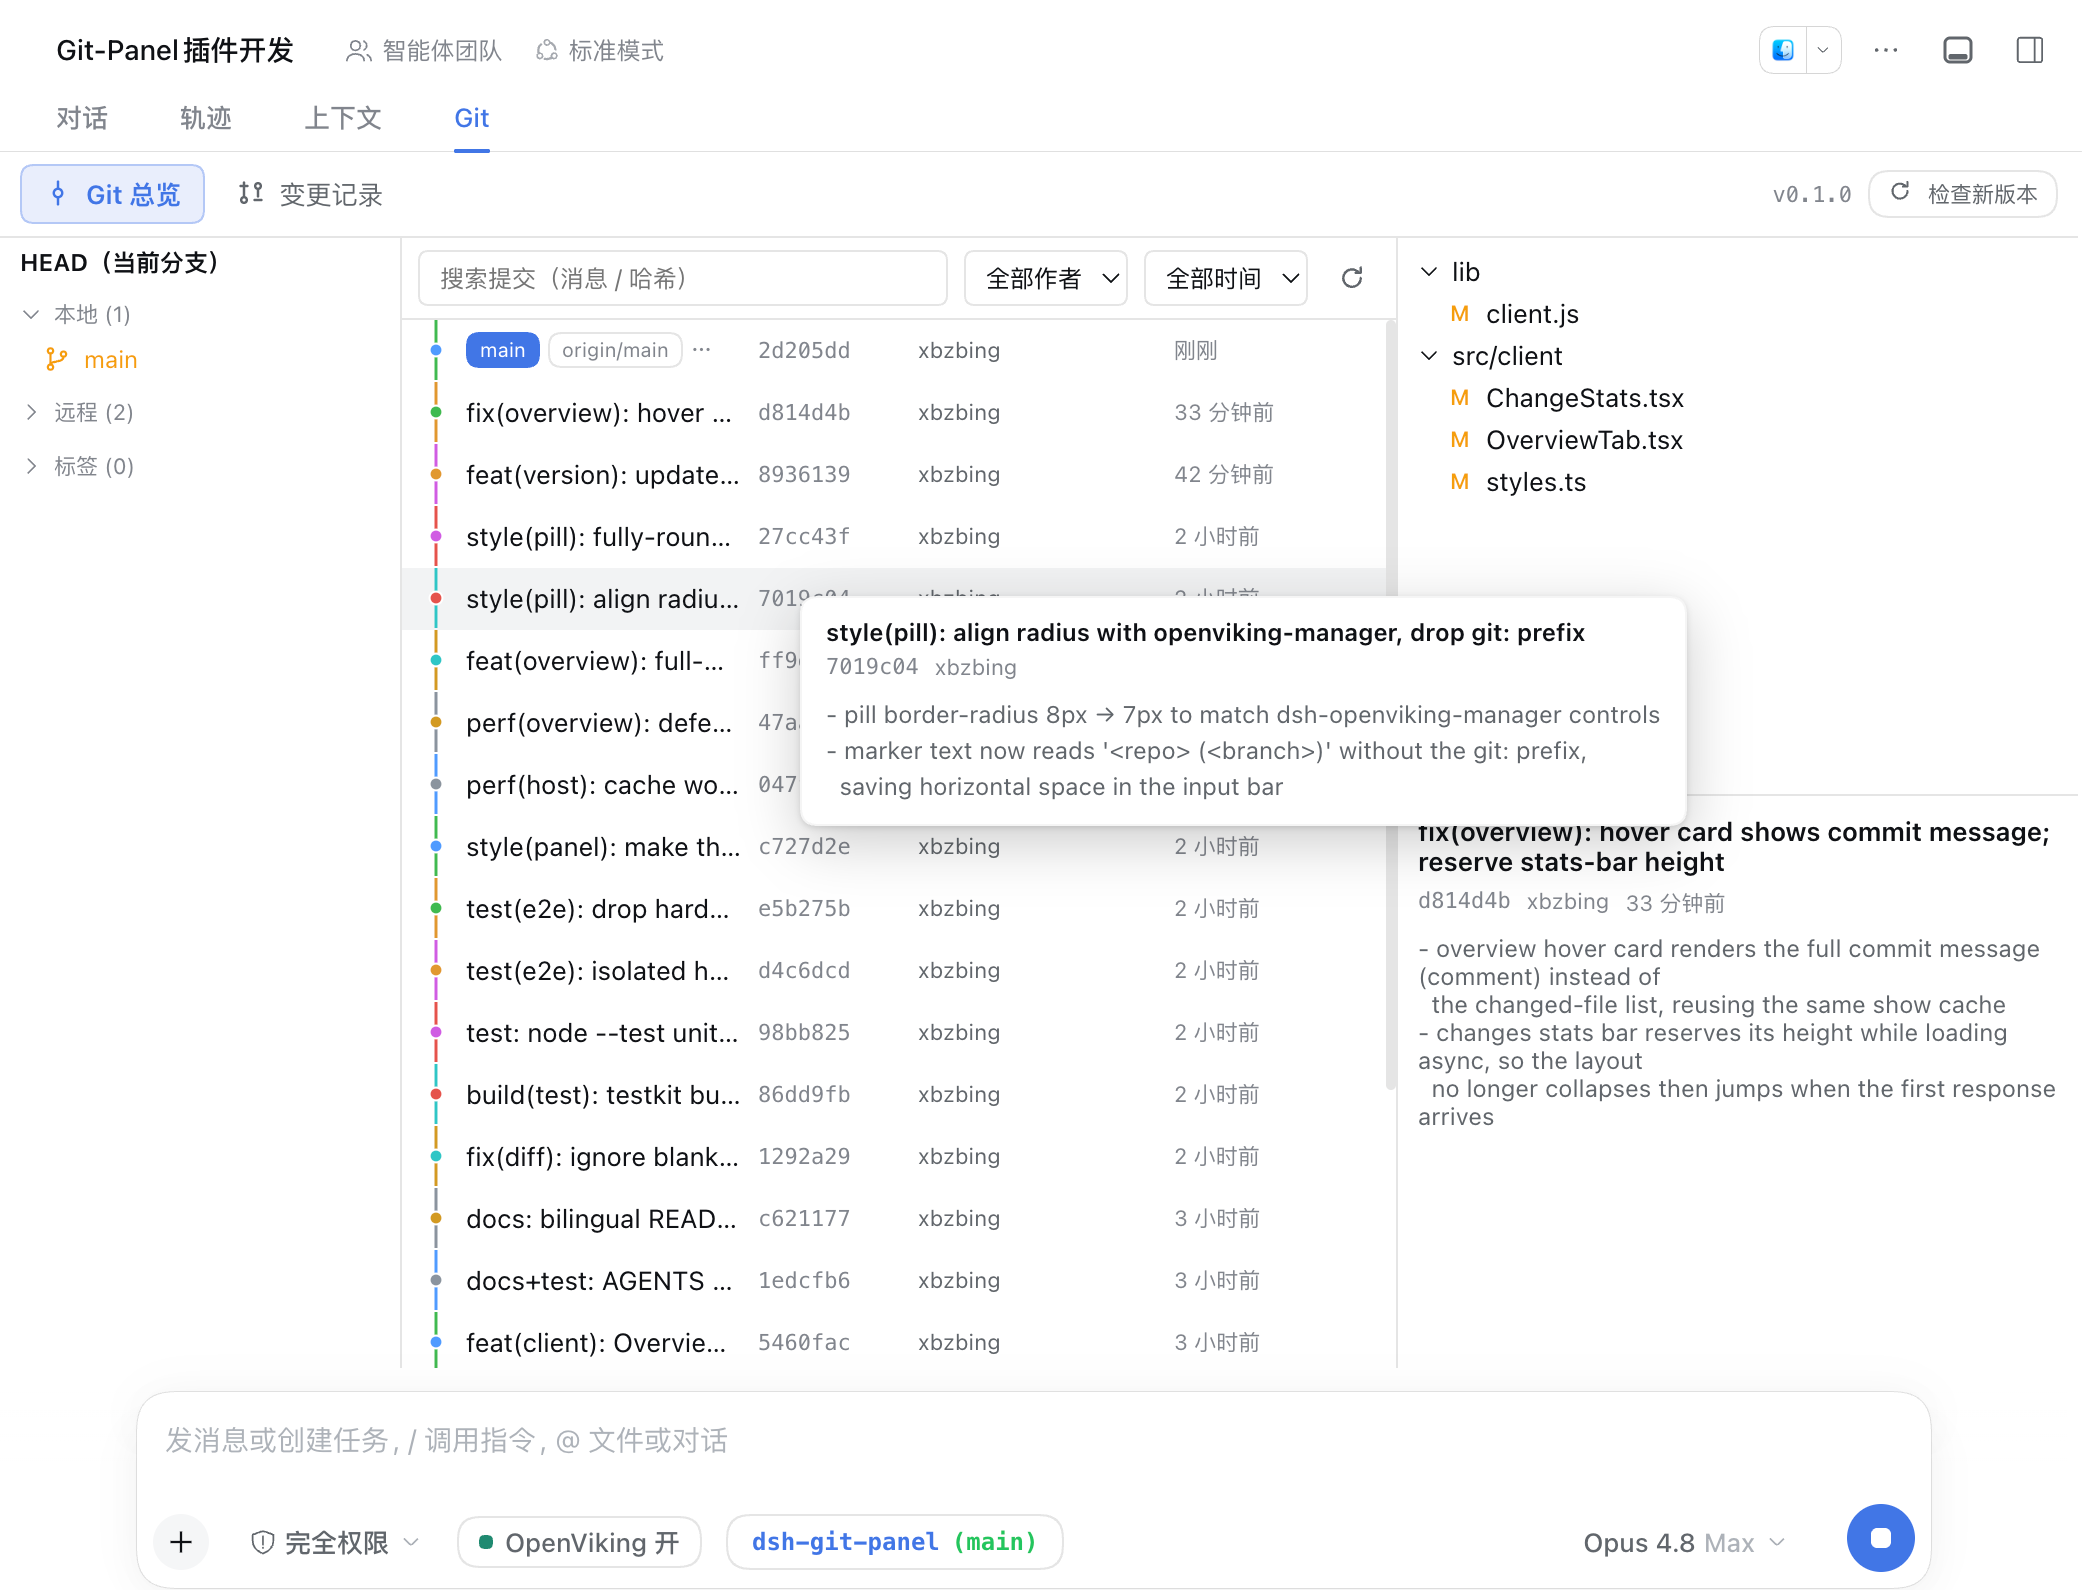
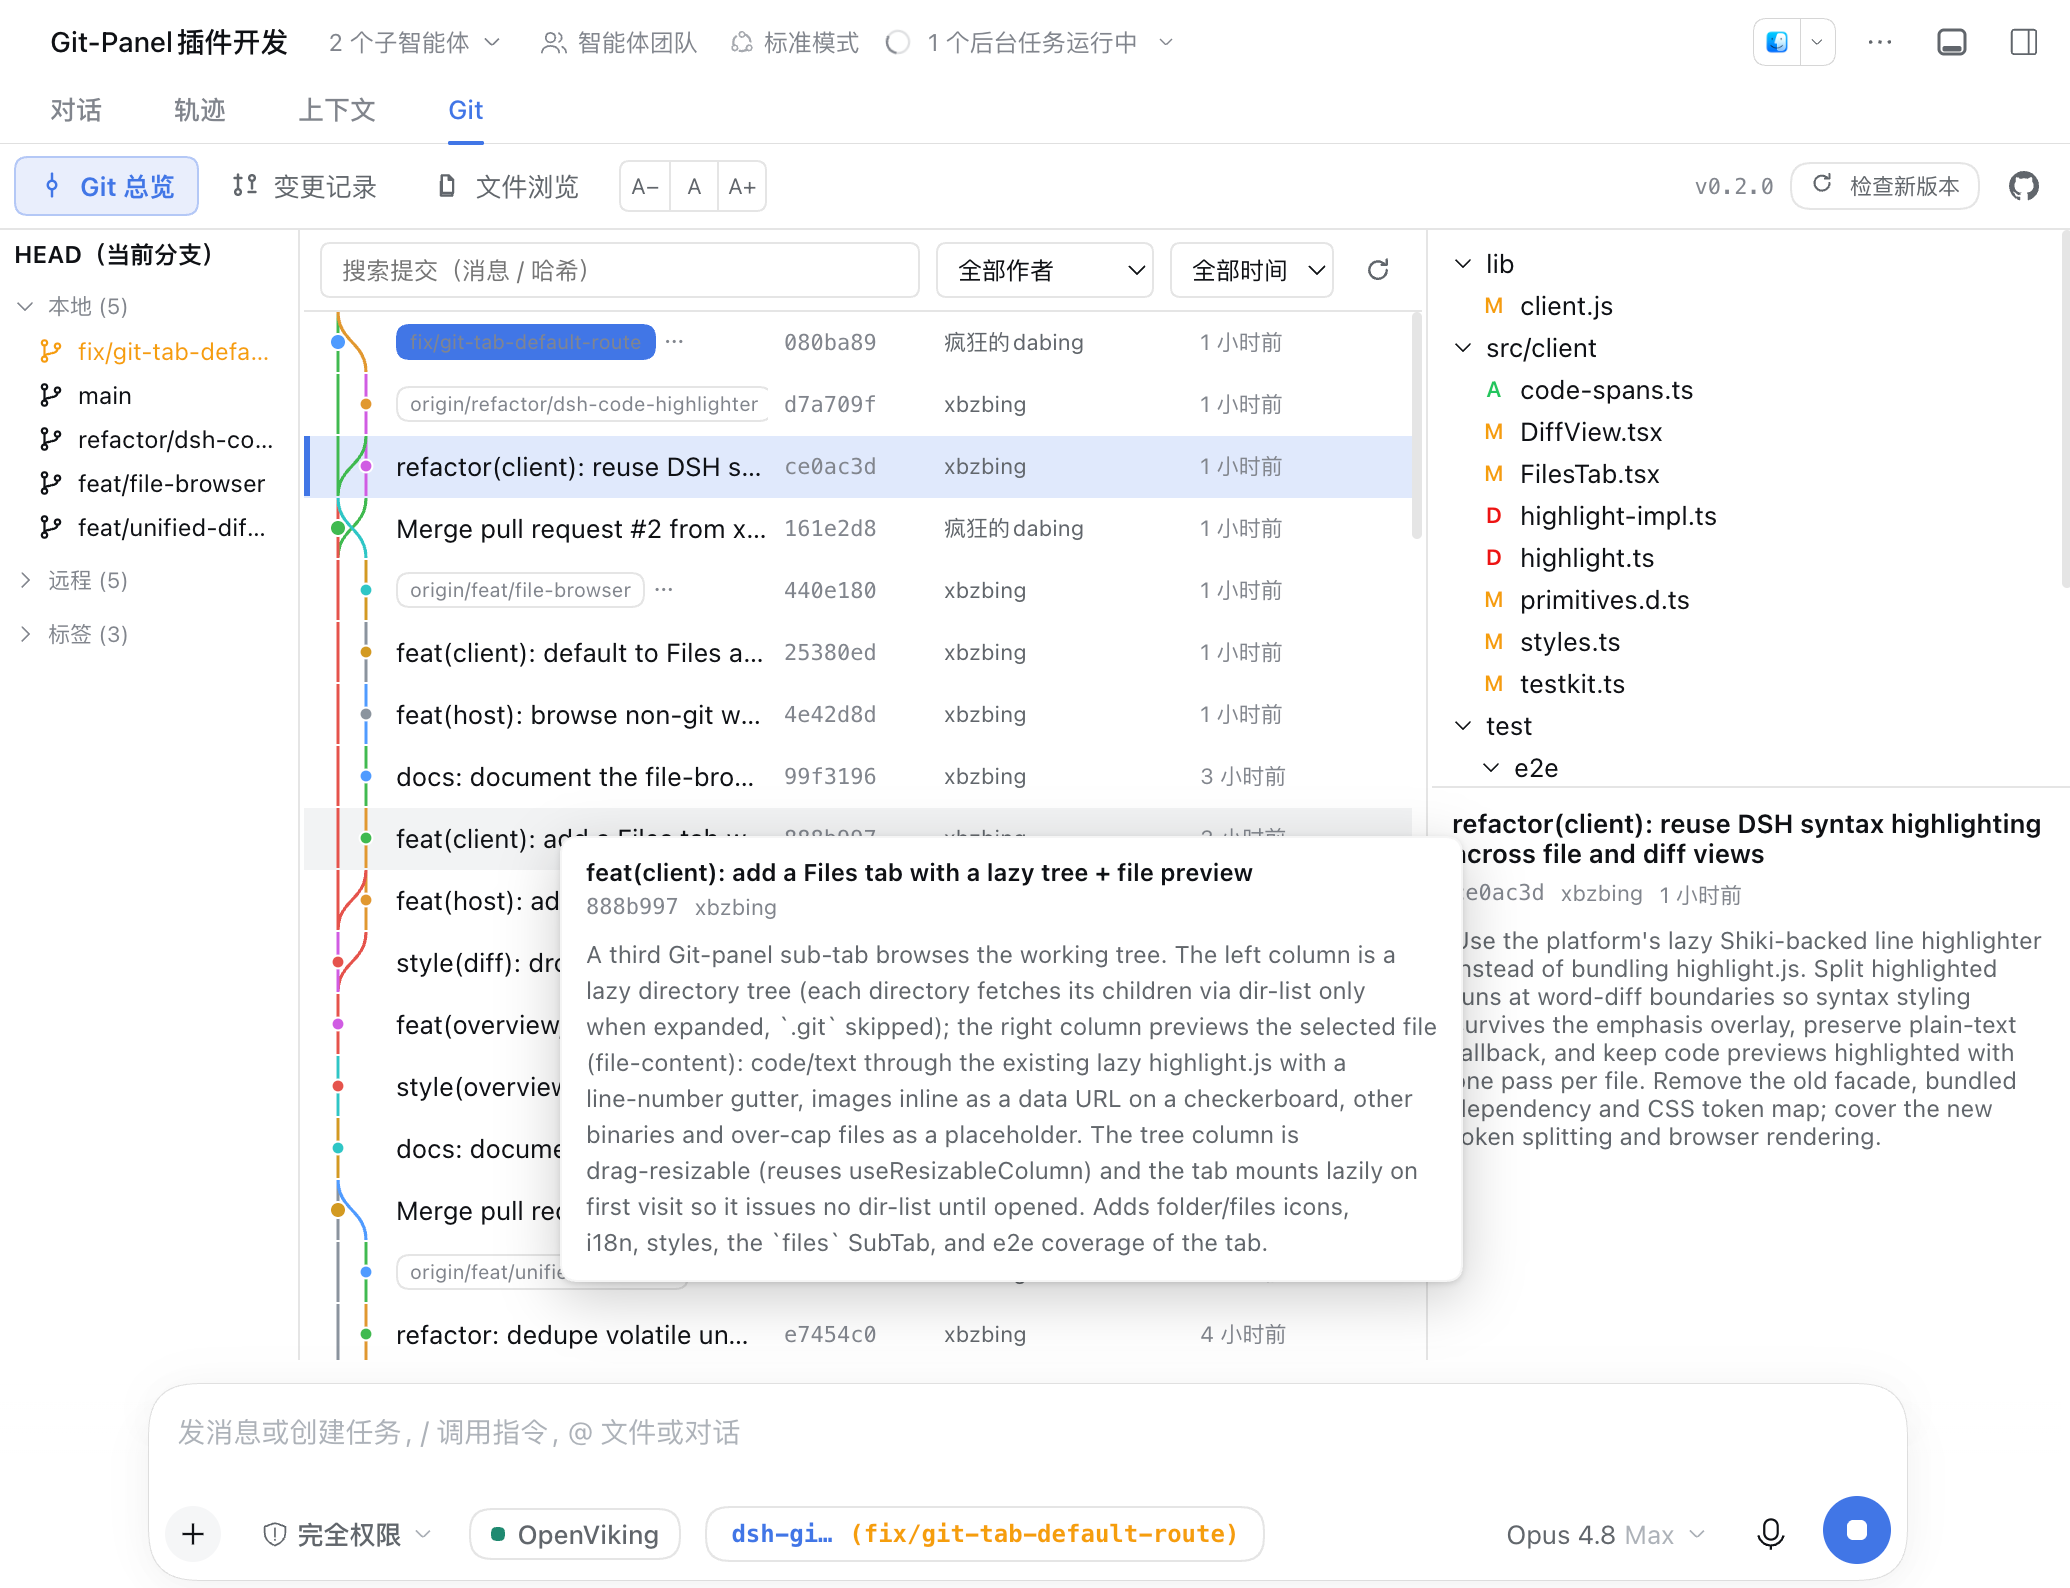
docs: describe new file-browser, panel, and install/restart behavior

diff --git a/README_EN.md b/README_EN.md
@@ -18,13 +18,13 @@ dsh plugin --profile web add @xbzbing/dsh-git-panel@latest
 dsh plugin --profile web add github:xbzbing/dsh-git-panel
 ```
 
-Restart or refresh the Web GUI afterwards and the **Git** panel appears in the workspace tab bar (after Chat and Trajectory).
+After installing or updating, restart the `dsh web` service and refresh the page; the **Git** panel then appears in the workspace tab bar (after Chat and Trajectory). The plugin has a host half and a client half, and both the host mount and the client bundle manifest are fixed when the service starts, so code updates (installing, or an `add` that overwrites `lib`) usually need a service restart — a page refresh alone may not pick them up. In-panel settings (the input-bar marker toggle and the default diff view on the detail page) are hot-written and apply immediately without a restart.
 
 ## Features
 
 - **Overview** — three columns. The left column is the branch / tag list; clicking a ref filters history by it. The middle column is the commit history graph, searchable by commit message, commit hash, author, or date; hovering a commit shows a card with its full commit message (comment). The right column is the selected commit's changed-file tree and commit message; click a file to see its diff within that commit in a modal.
 - **Changes** — the local working tree. The left column has a statistics bar (file count / added·deleted lines / last-change time), the uncommitted change list with per-file checkboxes, and a commit box with an **Amend** checkbox; per-file stage / unstage / discard and manual commit are supported. The right column is the selected file's diff.
-- **File browser** — opening the workspace Git tab defaults to Files. Non-Git directories also work, using the current directory as the browse root. The resizable tree loads one directory at a time and hides `.git`; the preview shows code/text or images, with placeholders for oversized or binary files. Markdown defaults to source; choose Rendered to use dsh's built-in Markdown view.
+- **File browser** — opening the workspace Git tab selects Files outside a Git repository, Overview in a clean repository, or Changes when there are uncommitted changes. Non-Git directories use the current directory as the browse root. The resizable tree loads one directory at a time and hides `.git`, shows dsh's official type icons per file, and dims entries excluded by `.gitignore`; the preview shows code/text or images, with a button to copy the file's relative path and placeholders for oversized or binary files. Markdown defaults to source; choose Rendered to use dsh's built-in Markdown view.
 - **Syntax-highlighted diffs** — the overview modal, changes page, and file browser share dsh's built-in highlighter. Languages are selected by file extension and grammars load on demand; word-level change emphasis remains available in the diff views.
 - **Expand unchanged lines** — the diff toolbar offers an "expand all / collapse unchanged" toggle; expanded, it shows the whole file instead of just the context around each change.
 - **Diff modes** — unified / split / before / after views. Unified is a single inline column (each change shown as adjacent `-`/`+` lines, saving horizontal space); split is side-by-side. Both carry on-demand expansion of hidden between-hunk context and word-level emphasis on changed lines. The default view is selectable on the plugin detail page (unified / split) and can be switched per diff from the toolbar.
@@ -32,6 +32,7 @@ Restart or refresh the Web GUI afterwards and the **Git** panel appears in the w
 - **Show input-bar marker toggle** — the plugin detail page can toggle the input-bar marker; when off, the input bar stays clean and the Git tab shows a status dot instead (green = synced, orange = dirty). The two are mutually exclusive and changes apply immediately. The same config section also sets the default diff view (unified / split).
 - **Input-bar Git marker** — a zsh-theme `<repo> (<branch>)` marker: the repo name is cyan, `(branch)` is green when in sync and orange when there are uncommitted changes; hover shows the full repository path, and clicking jumps to the panel (to Changes when dirty, otherwise to Overview); in non-Git directories the input-bar marker is hidden, while the workspace Git tab still opens the file browser.
 - **Version & repo entry** — the sub-tab row shows the plugin version on the right, next to a "Check for updates" button (queries GitHub for the latest release only when clicked) and an icon linking to the GitHub repository.
+- **Font size control** — the sub-tab row offers A− / A / A+ font-size steps; the default size is unchanged and the choice is remembered locally.
 - The UI follows the DSH system language, in Simplified Chinese and English.
 
 ## Screenshots

diff --git a/README.md b/README.md
@@ -18,13 +18,13 @@ dsh plugin --profile web add @xbzbing/dsh-git-panel@latest
 dsh plugin --profile web add github:xbzbing/dsh-git-panel
 ```
 
-安装后重启或刷新 Web GUI，工作区标签栏（「对话」「轨迹」之后）就会出现 **Git** 面板。
+安装或更新后，重启 `dsh web` 服务再刷新页面，工作区标签栏（「对话」「轨迹」之后）就会出现 **Git** 面板。插件分 host 与 client 两半，宿主挂载和 client bundle 清单都在服务启动时定型，因此代码更新（安装、`add` 覆盖 `lib`）通常需要重启服务，仅刷新页面可能看不到变化。面板内的配置项（详情页的输入框标记开关、差异默认视图）走配置热写，改动即时生效、无需重启。
 
 ## 功能
 
 - **Git 总览**：三栏布局。左栏是分支 / 标签列表，点击某个引用即按它过滤历史；中栏是提交历史图，支持按提交信息、commit 哈希、作者、日期搜索，悬停某条提交弹出卡片显示完整提交信息（comment）；右栏是选中提交的变更文件树与提交信息，点击文件在弹出的 modal 里查看该文件在此提交中的差异。
 - **变更记录**：面向本地工作区。左栏是统计条（文件数 / 增删行数 / 最近变更时间）、带复选框的未提交变更列表、以及含 **Amend** 复选框的提交框，支持逐文件暂存 / 取消暂存 / 丢弃与手动提交；右栏是选中文件的差异对照。
-- **文件浏览**：直接打开工作区「Git」标签默认进入此页；非 Git 目录也能浏览，以当前工作目录为根。左栏目录树按需加载（点开才读取下一层，不显示 `.git`），宽度可拖动；右栏可预览代码、文本和图片，过大文件或其他二进制文件显示提示。Markdown 默认显示源码，可点击「渲染」切换到 dsh 自带的 Markdown 视图。
+- **文件浏览**：直接打开工作区「Git」标签时，非 Git 目录默认进入文件浏览；Git 仓库中无未提交变更则进入「Git 总览」，有未提交变更则进入「变更记录」。非 Git 目录也能浏览，以当前工作目录为根。左栏目录树按需加载（点开才读取下一层，不显示 `.git`），按文件类型显示 dsh 官方图标，被 `.gitignore` 忽略的条目半透明呈现，宽度可拖动；右栏可预览代码、文本和图片，顶部可复制文件相对路径，过大文件或其他二进制文件显示提示。Markdown 默认显示源码，可点击「渲染」切换到 dsh 自带的 Markdown 视图。
 - **语法高亮差异**：总览弹窗、变更记录和文件浏览共用 dsh 官方语法高亮，按文件扩展名选择语言，语法资源按需加载；差异视图的改动词级强调保留原有交互。
 - **展开未变更行**：差异工具栏提供「展开全部 / 折叠未变更」切换，展开后显示整个文件而不只是变更附近的上下文。
 - **对照模式**：差异支持「统一 / 对照 / 变更前 / 变更后」四种视图切换。统一视图为单栏行内对比（改动行前后紧邻，省横向空间），对照视图为左右并排；两种视图都带块间隐藏上下文的按需展开与改动行的词级高亮。默认视图可在插件详情页选择（统一 / 并排），也可在每个差异视图工具栏临时切换。
@@ -32,6 +32,7 @@ dsh plugin --profile web add github:xbzbing/dsh-git-panel
 - **显示输入框标记开关**：插件详情页可切换输入框标记；关闭后输入框不再显示分支标记，改为在「Git」标签旁显示状态圆点（绿=已同步、橙色=有变更），两者互斥，保存后立即生效。同一处配置区还可设置差异对比的默认视图（统一 / 并排）。
 - **输入框 Git 标记**：一个 zsh 主题风格的 `<仓库名> (<分支>)` 标记，仓库名青色，`(分支)` 在已同步时为绿色、有未提交变更时为橙色；悬停显示完整仓库路径，点击跳转面板（有未提交变更进入变更记录，否则进入 Git 总览）；非 Git 目录不显示输入框标记，可通过工作区的「Git」标签进入文件浏览。
 - **版本与仓库入口**：子标签行右侧显示插件版本号，旁边有「检查新版本」按钮（用户主动点击才比对 GitHub 最新发布）和一个跳转到 GitHub 仓库的图标。
+- **字号调节**：子标签行提供 A− / A / A+ 三档字号调节，默认字号保持不变，选择会记在本地。
 - UI 跟随 DSH 系统语言设置，支持简体中文和英文。
 
 ## 界面

diff --git a/AGENTS.md b/AGENTS.md
@@ -9,7 +9,7 @@
 - 工作区新增常驻面板 tab「Git」，位于「对话」「轨迹」之后，内部含三个子 tab：
   - **Git 总览**：左=分支列表，中=提交历史图（支持 commit id 等字段搜索），右=提交详情 + comment。
   - **变更记录**：左=变更统计（文件数 / 增删行数 / 最近变更时间）+ 本地未提交变更列表（勾选、手动提交、Amend），右=选中文件差异对比（图片走 `image-diff` 新旧双图对照）。
-  - **文件浏览**：直接打开 Git tab 默认进入此页；非 Git 目录仅显示此子 tab，以 cwd 为根。左=按需加载目录树（`.git` 不可浏览），右=文件预览（代码/文本用 dsh 官方 `useCodeHighlighter` 语法高亮，Markdown 可切换官方 `MarkdownText` 渲染，图片内联，其余二进制占位）。
+  - **文件浏览**：直接打开 Git tab 时，非 Git 目录默认进入此页、干净仓库默认 Git 总览、有未提交变更默认变更记录；输入框标记的显式跳转仍优先。非 Git 目录仅显示文件浏览，以 cwd 为根。左=按需加载目录树（`.git` 不可浏览，Git 忽略项半透明），右=文件预览（按类型显示 dsh 官方 `FileTypeIcon`，可复制相对路径；代码/文本用官方 `useCodeHighlighter` 语法高亮，Markdown 可切换官方 `MarkdownText` 渲染，图片内联，其余二进制占位）。Git 面板保留默认字号，可在顶部调节并记住选择。
 - inputBar 一个 zsh 风格 Git 标记：`<仓库名> (<分支>)`，绿色=已同步、橙色=有待提交；hover 显示完整路径；点击跳转面板（有未提交→变更记录，已提交→Git 总览）。非 Git 目录不显示此标记或状态圆点；插件详情页可隐藏 Git 仓库的标记，隐藏时改为在「Git」标签旁显示同色状态圆点（`tab-dot.ts`），两者互斥。
 - 插件详情页配置区：「显示输入框标记」开关 = host `static Config` volatile 字段 + client 注册 `plugins.bundle.config` 表单（`PillConfig.tsx`），经 `configForms` 热写；写入被接受后客户端立即 `resyncAll()`，不等轮询。
 
